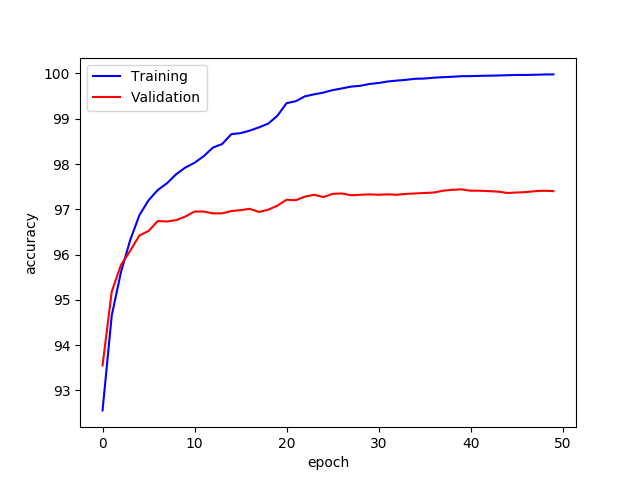
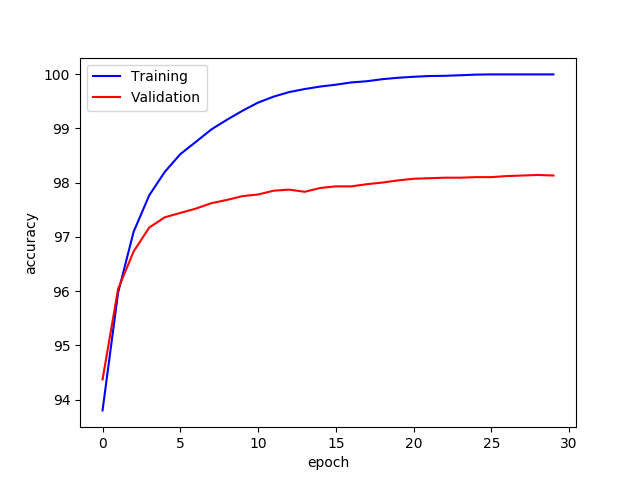
forget images

diff --git a/Problem 1/mlp.py b/Problem 1/mlp.py
@@ -497,7 +497,7 @@ if __name__ == '__main__':
 	nn = NN(hidden_dims=(512, 256), n_hidden=2, datapath='./datasets/mnist.pkl.npy')
 	print("train/val/test: "+str(nn.dim_data))
 
-	parameters = nn.train(10,'glorot', 20, nn.D_train[0], nn.D_train[1], mini_batch=64, act_function="relu")
+	parameters = nn.train(30,'glorot', 0.01, nn.D_train[0], nn.D_train[1], mini_batch=8, act_function="relu")
 	sd
 
 	# parameters = nn.train(50,'glorot', 0.01, nn.D_train[0], nn.D_train[1], mini_batch=64, act_function="tanh")

diff --git a/Report_Practical/main.tex b/Report_Practical/main.tex
@@ -162,7 +162,7 @@ We observe that when the learning rate is low, training is more reliable, howeve
 
 \item number of mini-batches of 64: validation accuracy = 97.3\% (See Figure \ref{fig:hyper}).
 
-\item number of mini-batches of 8: validation accuracy = 97.4\% (See Figure \ref{fig:batch2}).
+\item number of mini-batches of 8: validation accuracy = 98.1\% (See Figure \ref{fig:batch2}).
 
 \item number of mini-batches of 512: validation accuracy = 93.1\% (See Figure \ref{fig:batch3}).  
   
